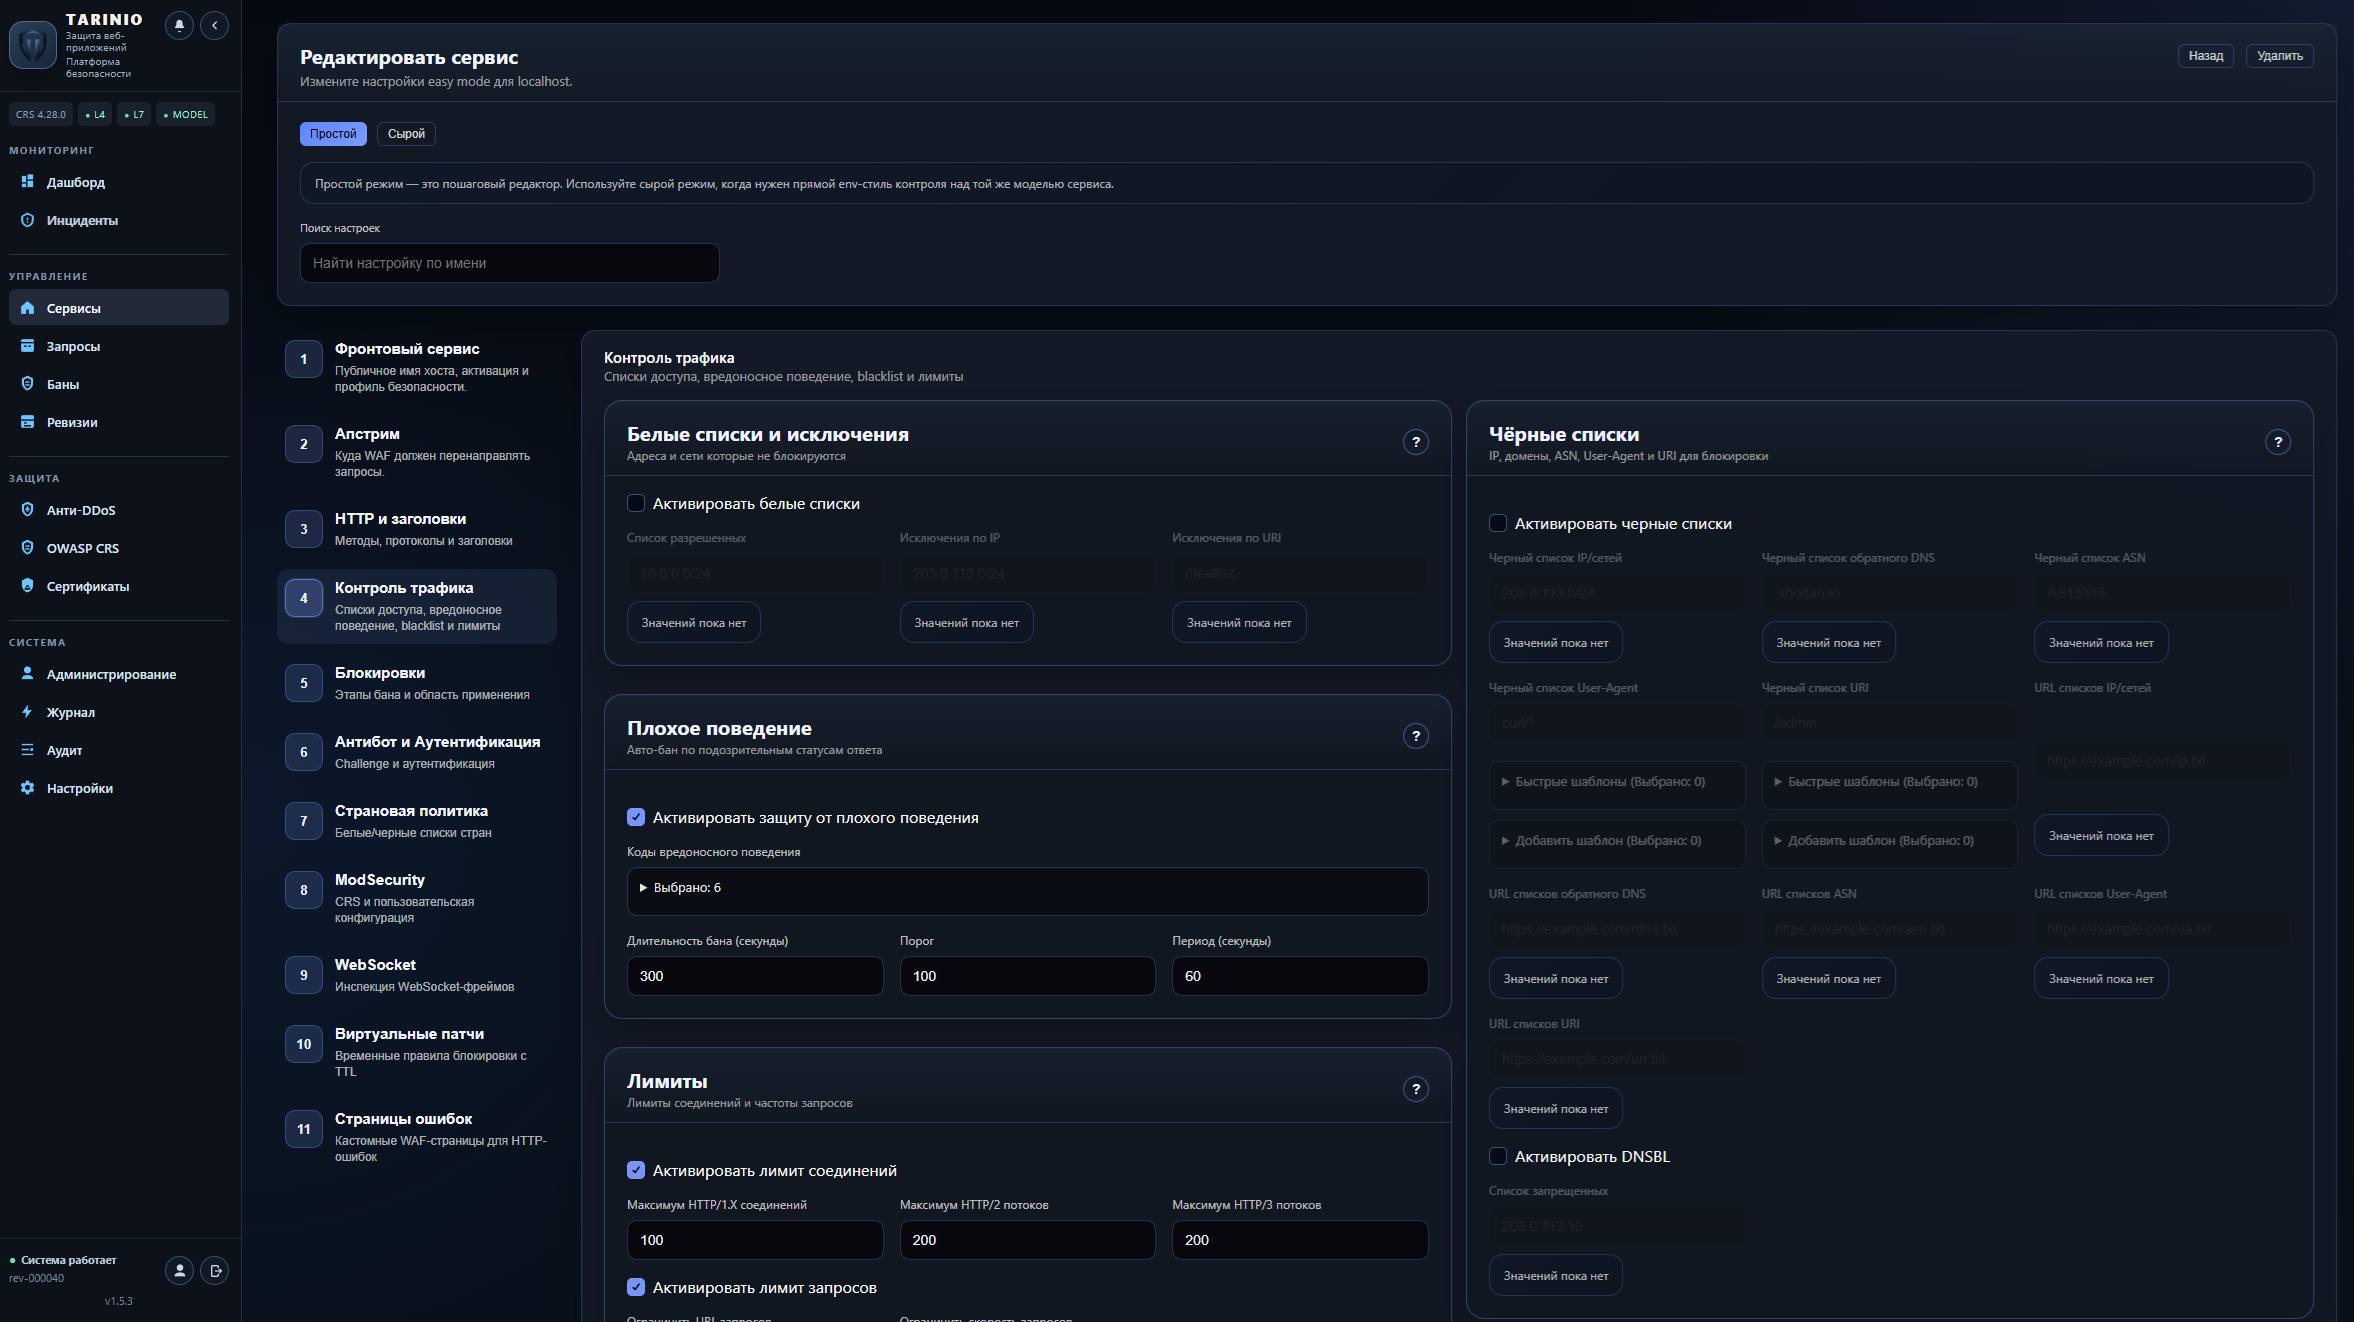
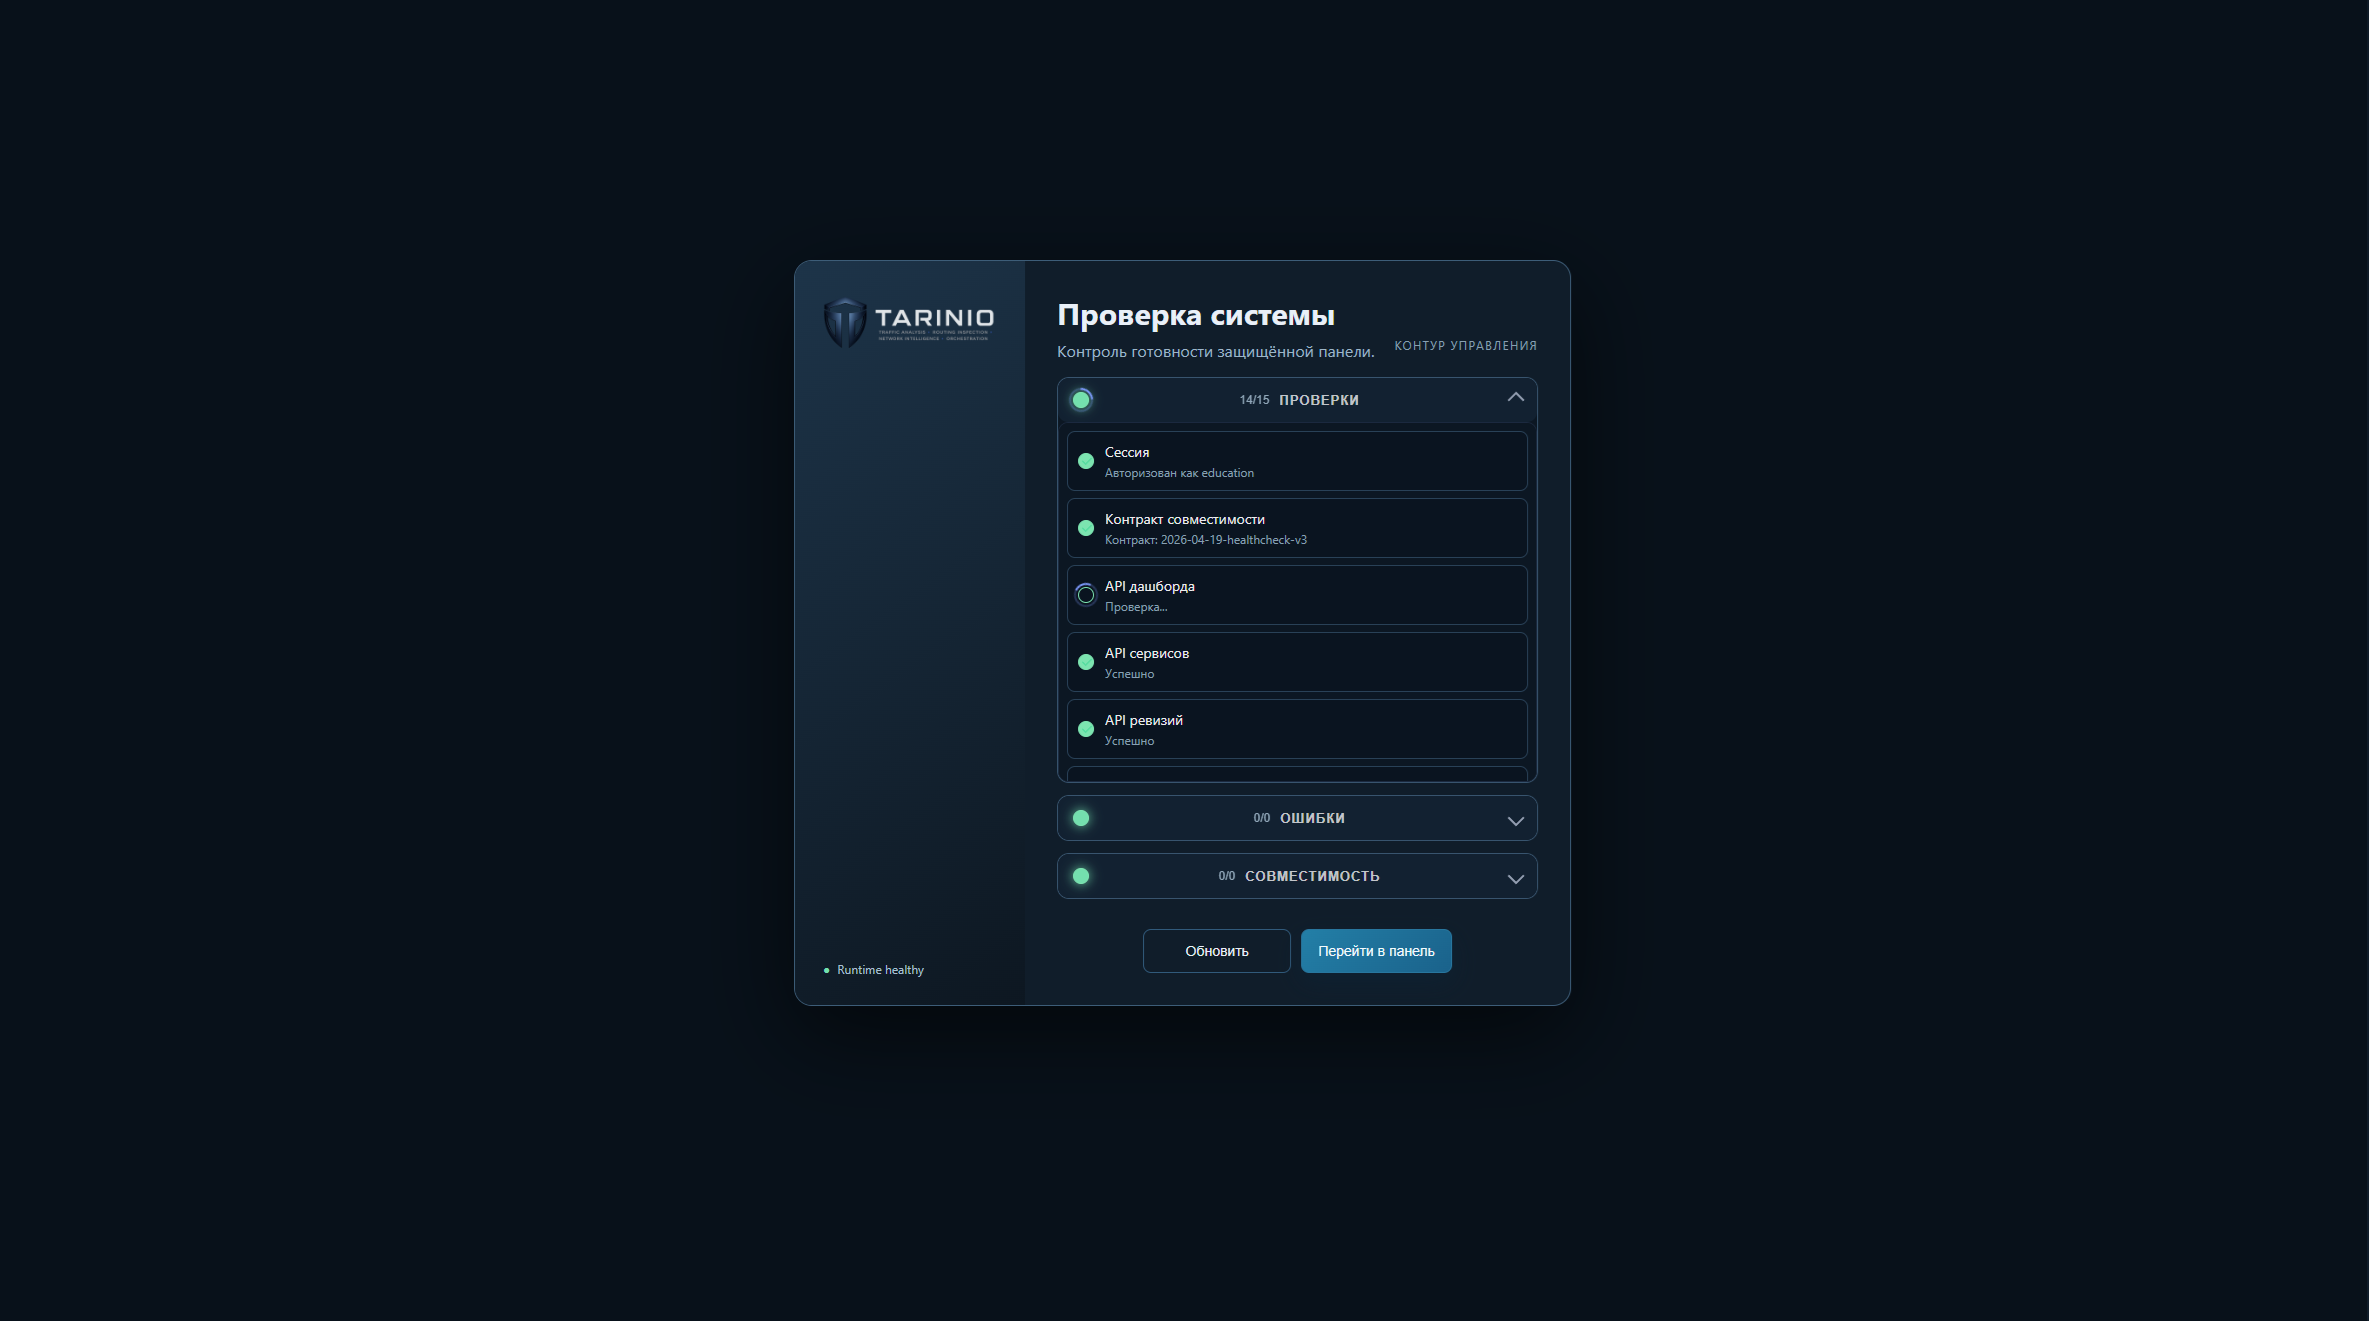
docs(readme): refresh interface screenshots

diff --git a/README.en.md b/README.en.md
@@ -1,7 +1,5 @@
-# Berkut Solutions - TARINIO
-
 <p align="center">
-  <img src="ui/app/static/logo700x250.png" alt="Berkut TARINIO logo" width="240">
+  <img src="ui/app/static/logo700x250.png" alt="Berkut TARINIO logo" width="300">
 </p>
 
 [Russian version](README.md)
@@ -87,5 +85,9 @@ This provides reproducible changes, auditable operations, and one control loop f
 
 ![Screenshot 3](ui/app/static/screen3.png)
 
-![Screenshot 4](ui/app/static/screen4.png)
+![Screenshot 4](ui/app/static/screen5.png)
+
+![Screenshot 5](ui/app/static/screen6.png)
+
+![Screenshot 6](ui/app/static/screen7.png)
 

diff --git a/README.md b/README.md
@@ -1,7 +1,5 @@
-# Berkut Solutions - TARINIO
-
 <p align="center">
-  <img src="ui/app/static/logo700x250.png" alt="Berkut TARINIO logo" width="240">
+  <img src="ui/app/static/logo700x250.png" alt="Berkut TARINIO logo" width="300">
 </p>
 
 [English version](README.en.md)
@@ -87,4 +85,8 @@ TARINIO принимает входящий трафик перед бизнес
 
 ![Экран 3](ui/app/static/screen3.png)
 
-![Экран 4](ui/app/static/screen4.png)
+![Экран 4](ui/app/static/screen5.png)
+
+![Экран 5](ui/app/static/screen6.png)
+
+![Экран 6](ui/app/static/screen7.png)

diff --git a/CHANGELOG.md b/CHANGELOG.md
@@ -1,5 +1,9 @@
 ## [1.5.4] - 15.07.2026
 
+### Документация
+
+- README на русском и английском обновлён актуальными скриншотами интерфейса; удалённая ссылка на `screen4.png` заменена новыми изображениями `screen5.png`–`screen7.png`.
+
 ### Monitoring, requests and telemetry
 
 - Запросы management host WAF больше не сохраняются в пользовательской телеметрии, счётчиках Dashboard и хранилищах запросов. Они остаются в техническом nginx access-log для диагностики; трафик защищаемых сервисов с такими же путями не исключается.